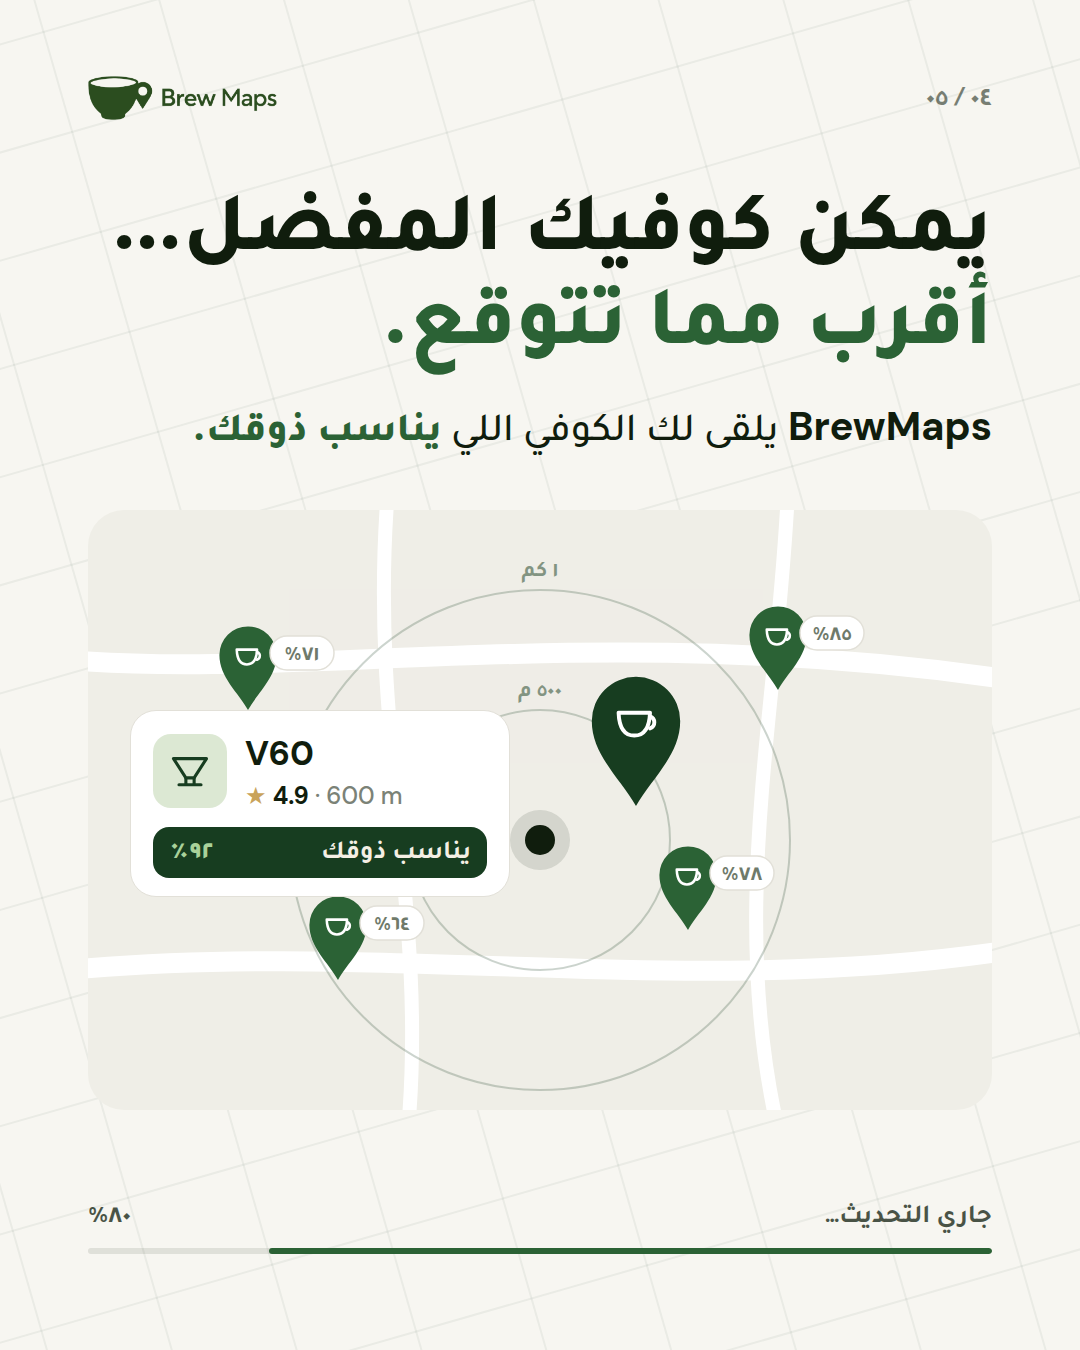
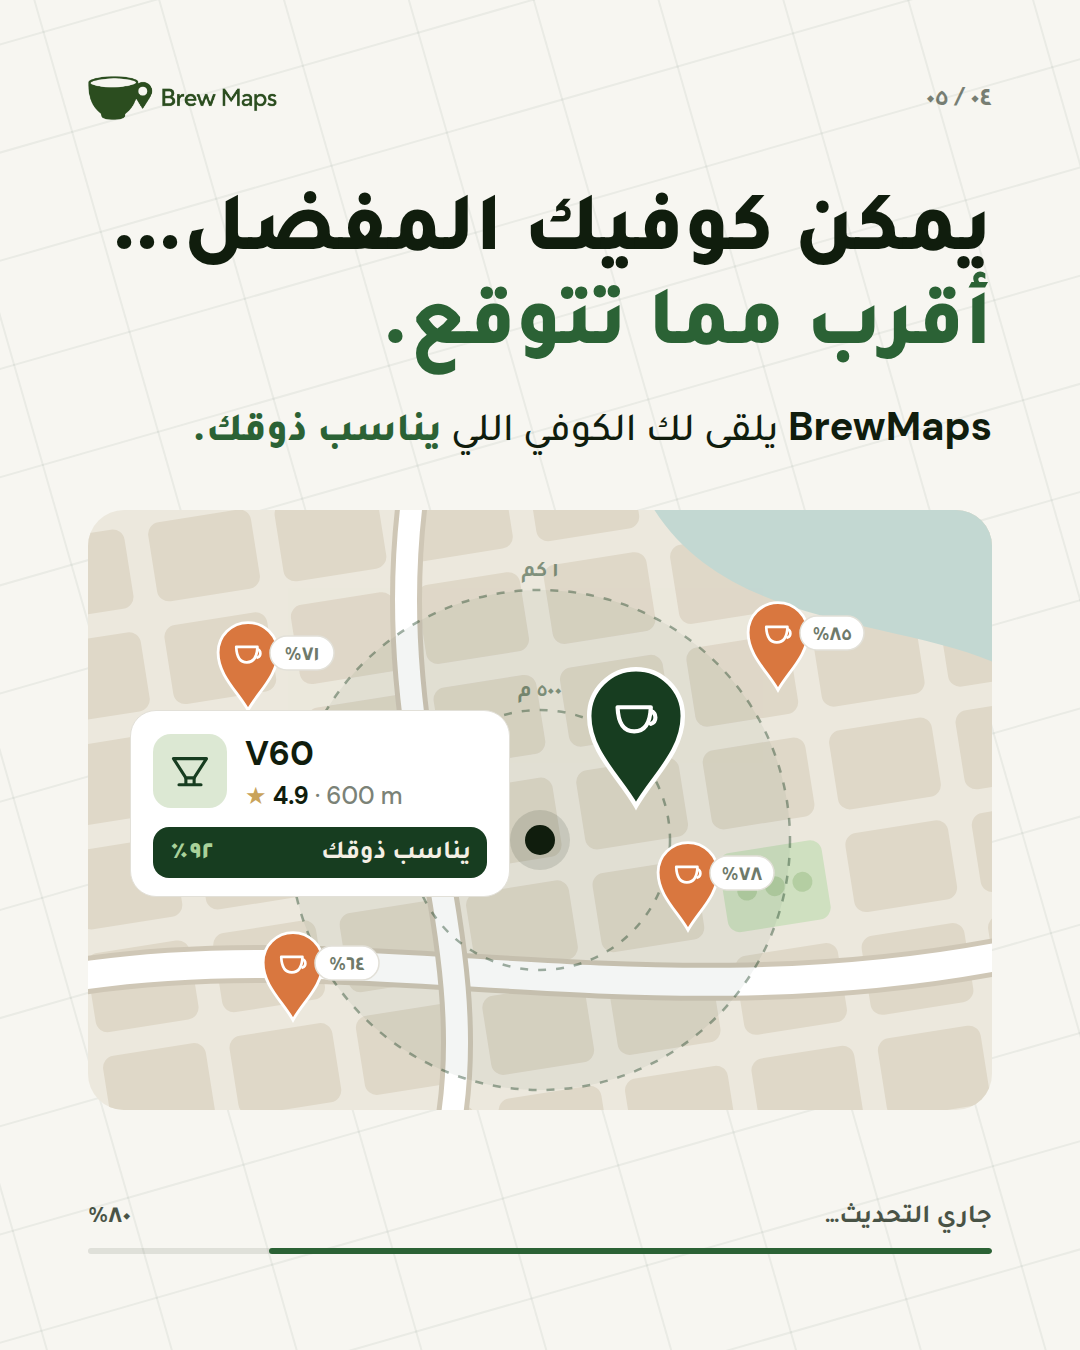
روتين قهوتك: clearer map, caramel café pins
Claude-Session: https://claude.ai/code/session_01UCKVHF8Bj15Neb29ir5cAN

Changed region(s): [[0.0611, 0.3733, 0.9167, 0.84]]

diff --git a/marketing/posts/coffee-routine-update/slides.html b/marketing/posts/coffee-routine-update/slides.html
@@ -68,21 +68,16 @@ const S = {
         <defs><clipPath id="c2"><rect width="904" height="560" rx="36"/></clipPath>
         <marker id="ar" markerWidth="10" markerHeight="10" refX="5" refY="5" orient="auto"><path d="M0 0 L10 5 L0 10Z" fill="#8F958B"/></marker></defs>
         <g clip-path="url(#c2)">
-          <rect width="904" height="560" fill="#EFEEE7"/>
-          <g fill="none" stroke="#FFFFFF" stroke-linecap="round">
-            <path d="M-20 120 C 200 140, 420 90, 924 150" stroke-width="22"/><path d="M-20 400 C 260 380, 600 430, 924 380" stroke-width="22"/>
-            <path d="M260 -20 C 240 200, 300 380, 280 580" stroke-width="16"/><path d="M640 -20 C 660 180, 600 360, 650 580" stroke-width="16"/>
-            <path d="M-20 260 L 924 250" stroke-width="8"/><path d="M460 -20 L 470 580" stroke-width="8"/><path d="M120 -20 L 110 580" stroke-width="8"/><path d="M800 -20 L 790 580" stroke-width="8"/>
-          </g>
+          <g class="mb" data-w="904" data-h="560"></g>
           <!-- everything nearby you haven't tried: faint outline pins -->
-          <g opacity=".55" id="faint"></g>
+          <g id="faint"></g>
           <!-- the same three places, round and round -->
-          <g fill="none" stroke="#8F958B" stroke-width="5" stroke-linecap="round" stroke-dasharray="1 14">
+          <g fill="none" stroke="#6F7A6A" stroke-width="6" stroke-linecap="round" stroke-dasharray="1 14">
             <path d="M560 300 C 520 230, 470 210, 420 200 C 360 190, 330 240, 350 300 C 370 360, 460 380, 520 350"/>
             <path d="M574 310 C 540 220, 470 190, 410 184 C 340 178, 306 240, 332 312 C 360 384, 470 398, 534 362" opacity=".55"/>
             <path d="M588 320 C 560 210, 470 170, 400 168 C 320 166, 282 240, 314 324 C 350 408, 480 416, 548 374" opacity=".3"/>
           </g>
-          ${PIN(420, 200, 1.05, '#A8ADA4')} ${PIN(350, 300, 1.05, '#A8ADA4')} ${PIN(520, 350, 1.05, '#A8ADA4')}
+          ${PIN(420, 200, 1.1, '#9EA39A', '#fff')} ${PIN(350, 300, 1.1, '#9EA39A', '#fff')} ${PIN(520, 350, 1.1, '#9EA39A', '#fff')}
           <circle cx="572" cy="308" r="16" fill="#101D0D"/><circle cx="572" cy="308" r="30" fill="#101D0D" opacity=".12"/>
         </g>
       </svg>
@@ -104,19 +99,16 @@ const S = {
       <svg style="position:absolute; top:510px; left:var(--M);" width="904" height="600" viewBox="0 0 904 600">
         <defs><clipPath id="c4"><rect width="904" height="600" rx="36"/></clipPath></defs>
         <g clip-path="url(#c4)">
-          <rect width="904" height="600" fill="#EFEEE7"/>
-          <g fill="none" stroke="#FFFFFF" stroke-linecap="round">
-            <path d="M-20 150 C 220 170, 520 110, 924 170" stroke-width="20"/><path d="M-20 460 C 300 430, 600 490, 924 440" stroke-width="20"/>
-            <path d="M300 -20 C 280 220, 340 400, 320 620" stroke-width="14"/><path d="M700 -20 C 690 200, 640 400, 690 620" stroke-width="14"/>
-          </g>
-          <g fill="none" stroke="#173D20" stroke-width="2" opacity=".22"><circle cx="452" cy="330" r="130"/><circle cx="452" cy="330" r="250"/></g>
+          <g class="mb" data-w="904" data-h="600"></g>
+          <g fill="#173D20" opacity=".05"><circle cx="452" cy="330" r="250"/></g>
+          <g fill="none" stroke="#173D20" stroke-width="2.5" stroke-dasharray="8 10" opacity=".4"><circle cx="452" cy="330" r="130"/><circle cx="452" cy="330" r="250"/></g>
           <text x="452" y="186" text-anchor="middle" font-size="22" font-weight="700" fill="#173D20" opacity=".5">٥٠٠ م</text>
           <text x="452" y="66" text-anchor="middle" font-size="22" font-weight="700" fill="#173D20" opacity=".5">١ كم</text>
-          ${PIN(600, 420, 1.1, '#2B6235')} ${PIN(250, 470, 1.1, '#2B6235')} ${PIN(690, 180, 1.1, '#2B6235')} ${PIN(160, 200, 1.1, '#2B6235')}
+          ${PIN(600, 420, 1.15, '#D9773F', '#fff')} ${PIN(205, 510, 1.15, '#D9773F', '#fff')} ${PIN(690, 180, 1.15, '#D9773F', '#fff')} ${PIN(160, 200, 1.15, '#D9773F', '#fff')}
           <circle cx="452" cy="330" r="15" fill="#101D0D"/><circle cx="452" cy="330" r="30" fill="#101D0D" opacity=".12"/>
-          ${PIN(548, 296, 1.7, '#173D20')}
+          ${PIN(548, 296, 1.8, '#173D20', '#fff')}
           <g font-family="Tajawal" font-weight="700" font-size="22" text-anchor="middle">
-            ${[[600,420,'٧٨٪'],[250,470,'٦٤٪'],[690,180,'٨٥٪'],[160,200,'٧١٪']].map(([x,y,t]) => `<rect x="${x+22}" y="${y-74}" width="64" height="34" rx="17" fill="#fff" stroke="#E2E0D8" stroke-width="1.5"/><text x="${x+54}" y="${y-50}" fill="#6F7A6A">${t}</text>`).join('')}
+            ${[[600,420,'٧٨٪'],[205,510,'٦٤٪'],[690,180,'٨٥٪'],[160,200,'٧١٪']].map(([x,y,t]) => `<rect x="${x+22}" y="${y-74}" width="64" height="34" rx="17" fill="#fff" stroke="#E2E0D8" stroke-width="1.5"/><text x="${x+54}" y="${y-50}" fill="#6F7A6A">${t}</text>`).join('')}
           </g>
         </g>
       </svg>
@@ -141,10 +133,26 @@ const S = {
 };
 document.getElementById('s').innerHTML = S[n];
 
-if (n === 2) {   // faint outline pins: the cafés nearby you've never opened
+document.querySelectorAll('.mb').forEach(M => {
+  const w = +M.dataset.w, h = +M.dataset.h;
+  let sd = 3 + n; const r = () => (sd = (sd * 1664525 + 1013904223) >>> 0) / 4294967296;
+  el(M, 'rect', { width:w, height:h, fill:'#ECE8DD' });
+  const B = el(M, 'g', { transform:`rotate(-9 ${w / 2} ${h / 2})` });
+  for (let x = -160; x < w + 160; x += 128) for (let y = -160; y < h + 160; y += 104) {
+    const park = r() < .09;
+    el(B, 'rect', { x:x + 12, y:y + 12, width:104, height:80, rx:12, fill: park ? '#CFE0C0' : '#DFD8C8' });
+    if (park) for (let k = 0; k < 3; k++) el(B, 'circle', { cx:x + 36 + k * 28, cy:y + 52, r:10, fill:'#B4CEA2' });
+  }
+  el(M, 'path', { d:`M${w * .62} -10 C ${w * .7} ${h * .2}, ${w * .9} ${h * .18}, ${w + 10} ${h * .26} L ${w + 10} -10 Z`, fill:'#C3D8D2' });
+  for (const [d, cw, fw] of [[`M-20 ${h * .78} C ${w * .3} ${h * .7}, ${w * .62} ${h * .86}, ${w + 20} ${h * .74}`, 38, 28], [`M${w * .36} -20 C ${w * .32} ${h * .4}, ${w * .44} ${h * .7}, ${w * .4} ${h + 20}`, 32, 22]]) {
+    el(M, 'path', { d, fill:'none', stroke:'#CFC7B6', 'stroke-width':cw, 'stroke-linecap':'round' });
+    el(M, 'path', { d, fill:'none', stroke:'#FFFFFF', 'stroke-width':fw, 'stroke-linecap':'round' });
+  }
+});
+if (n === 2) {   // caramel pins: the cafés nearby you've never opened
   const F = document.getElementById('faint');
   [[90,90],[200,170],[330,90],[640,80],[780,140],[860,260],[720,300],[150,350],[230,480],[420,470],[620,500],[760,440],[860,520],[60,520],[700,220]]
-    .forEach(([x, y]) => F.insertAdjacentHTML('beforeend', PIN(x, y, .8, 'none', '#2B6235', '#2B6235')));
+    .forEach(([x, y]) => F.insertAdjacentHTML('beforeend', PIN(x, y, .85, '#D9773F', '#fff')));
 }
 if (n === 3) {   // area tiles: real areas and the café counts the app shows; one selected
   const T = document.getElementById('tiles');

diff --git a/marketing/posts/coffee-routine-update/README.md b/marketing/posts/coffee-routine-update/README.md
@@ -5,7 +5,8 @@ HOOK → PROBLEM → SOLUTION → PAYOFF → CTA.
 
 System
 - Green bookends (1 and 5, `#173D20`, cream type); off-white middle (`#F7F6F1`), green the only accent.
-- A faint street grid under every slide; hairline flat map drawings, no photos, no café names.
+- A faint street grid under every slide; flat map drawings (blocks, park, water, main roads), no photos, no café names.
+- Pins: caramel `#D9773F` for cafés (untried on 2, matches on 4), grey for the usual places, BrewMaps green for the best match.
 - The update installs as you swipe: a bar at the bottom fills 20 → 100% ("جاري التحديث…" → "تم التحديث").
 - One grid: 88px margins, logo top-left, slide number top-right, headline zone, visual zone, bar at the bottom.
 - Slide 3's area tiles use the real areas and café counts from the app's Browse by area screen (Jumeirah 24,
